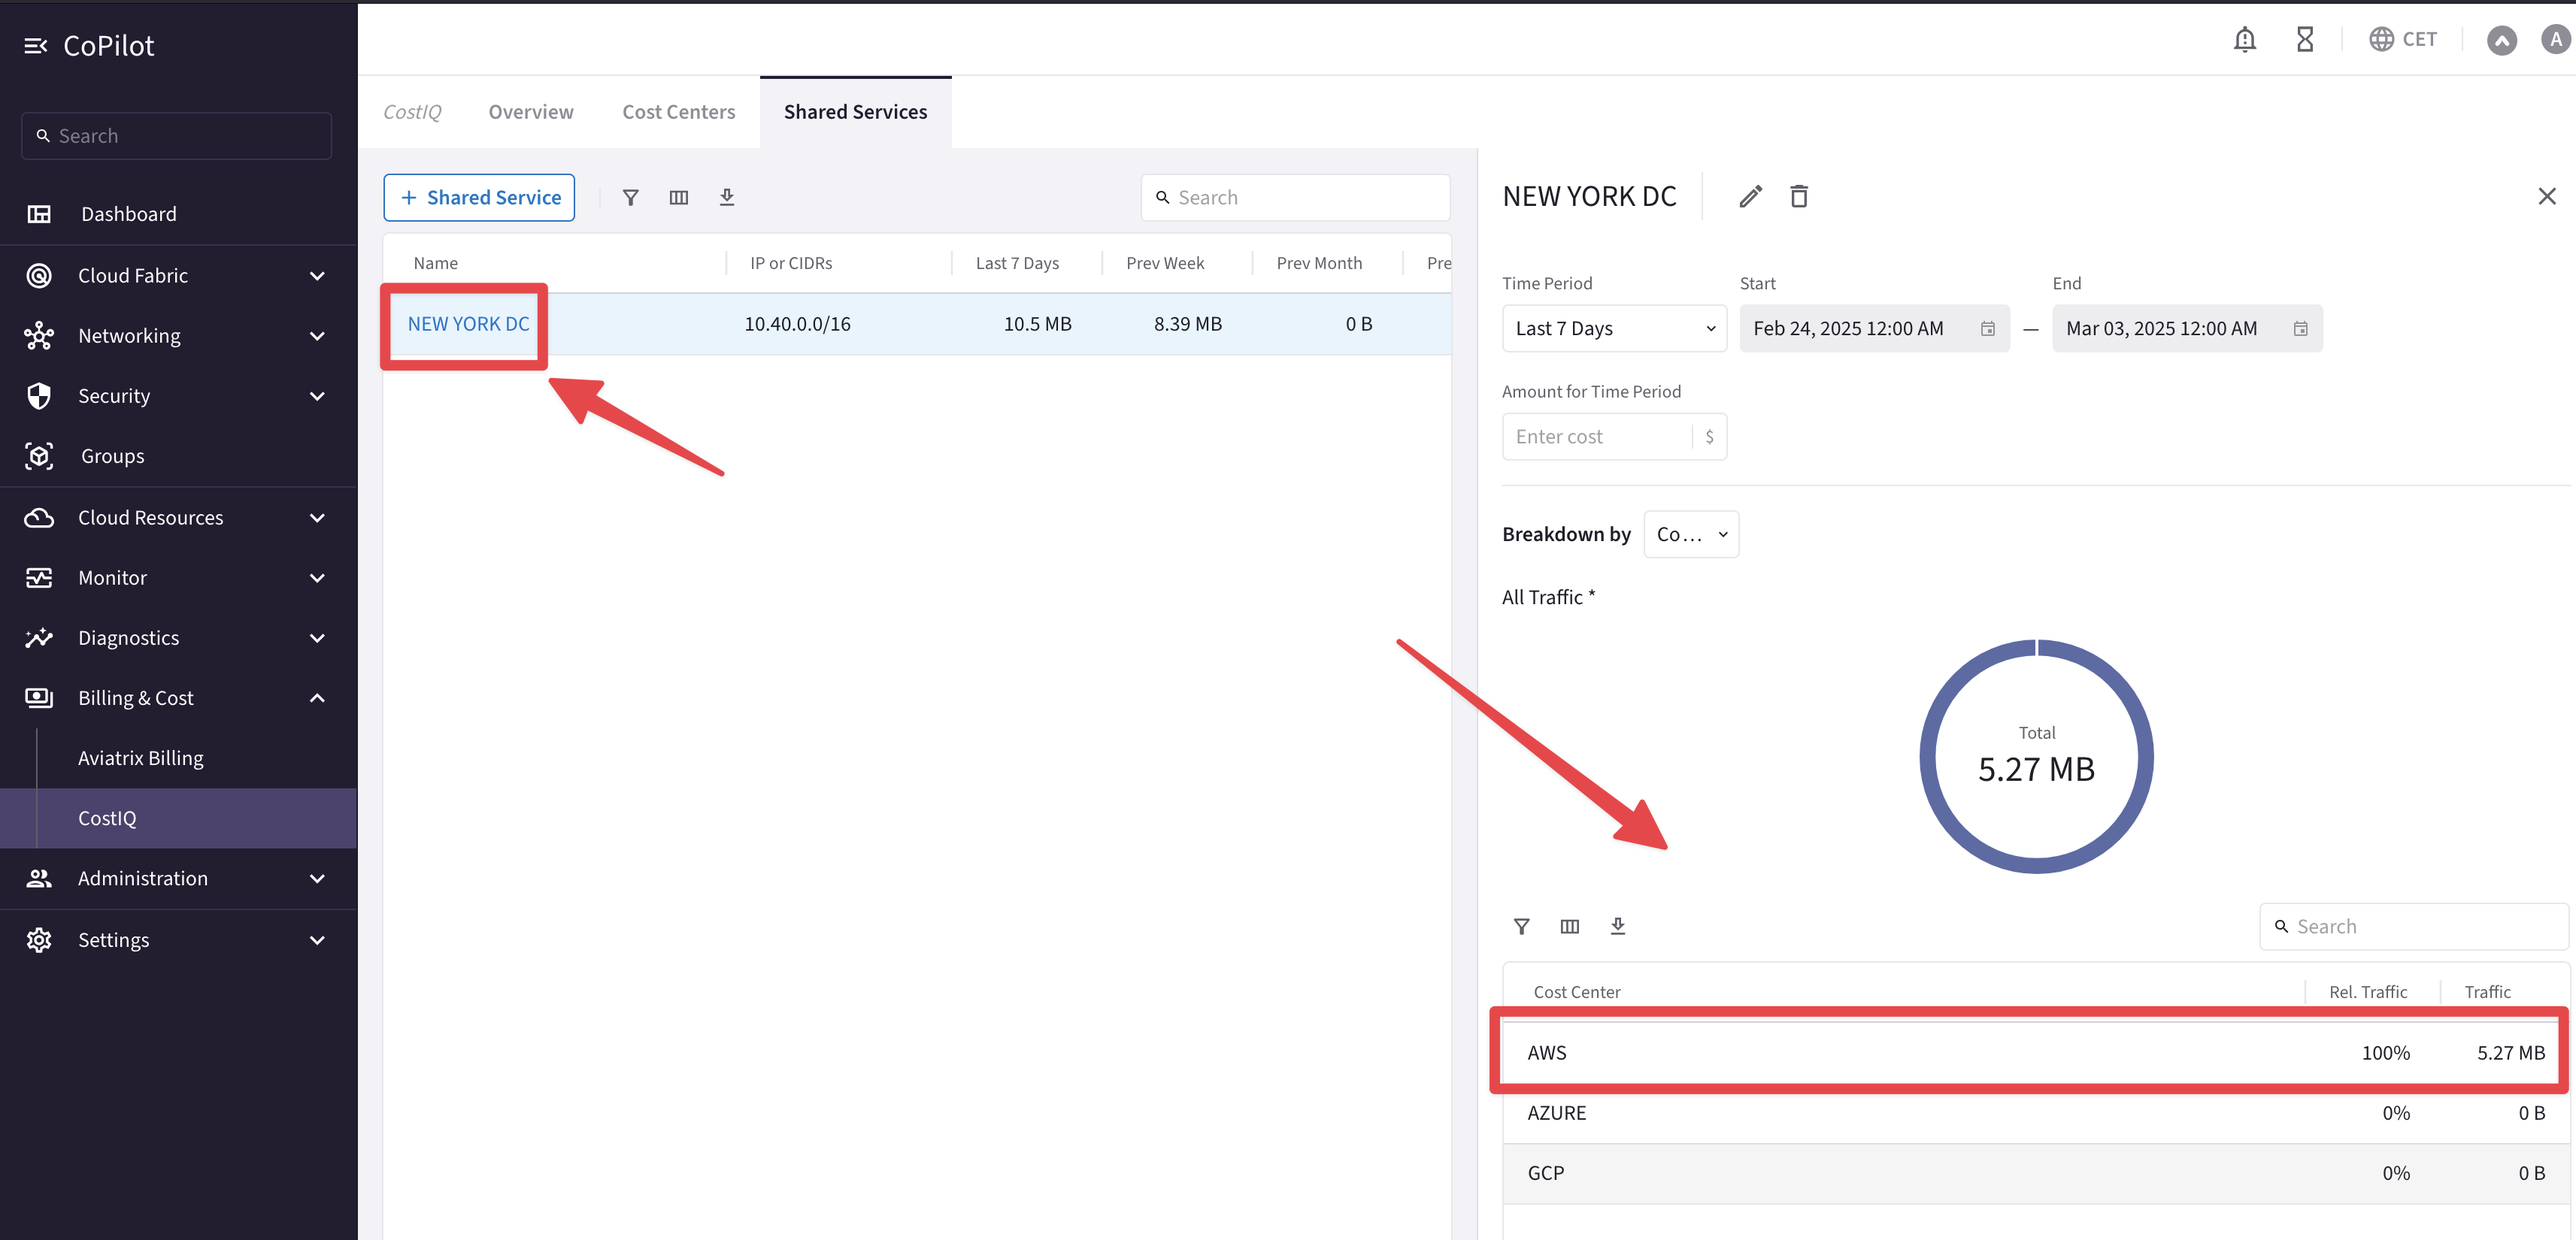
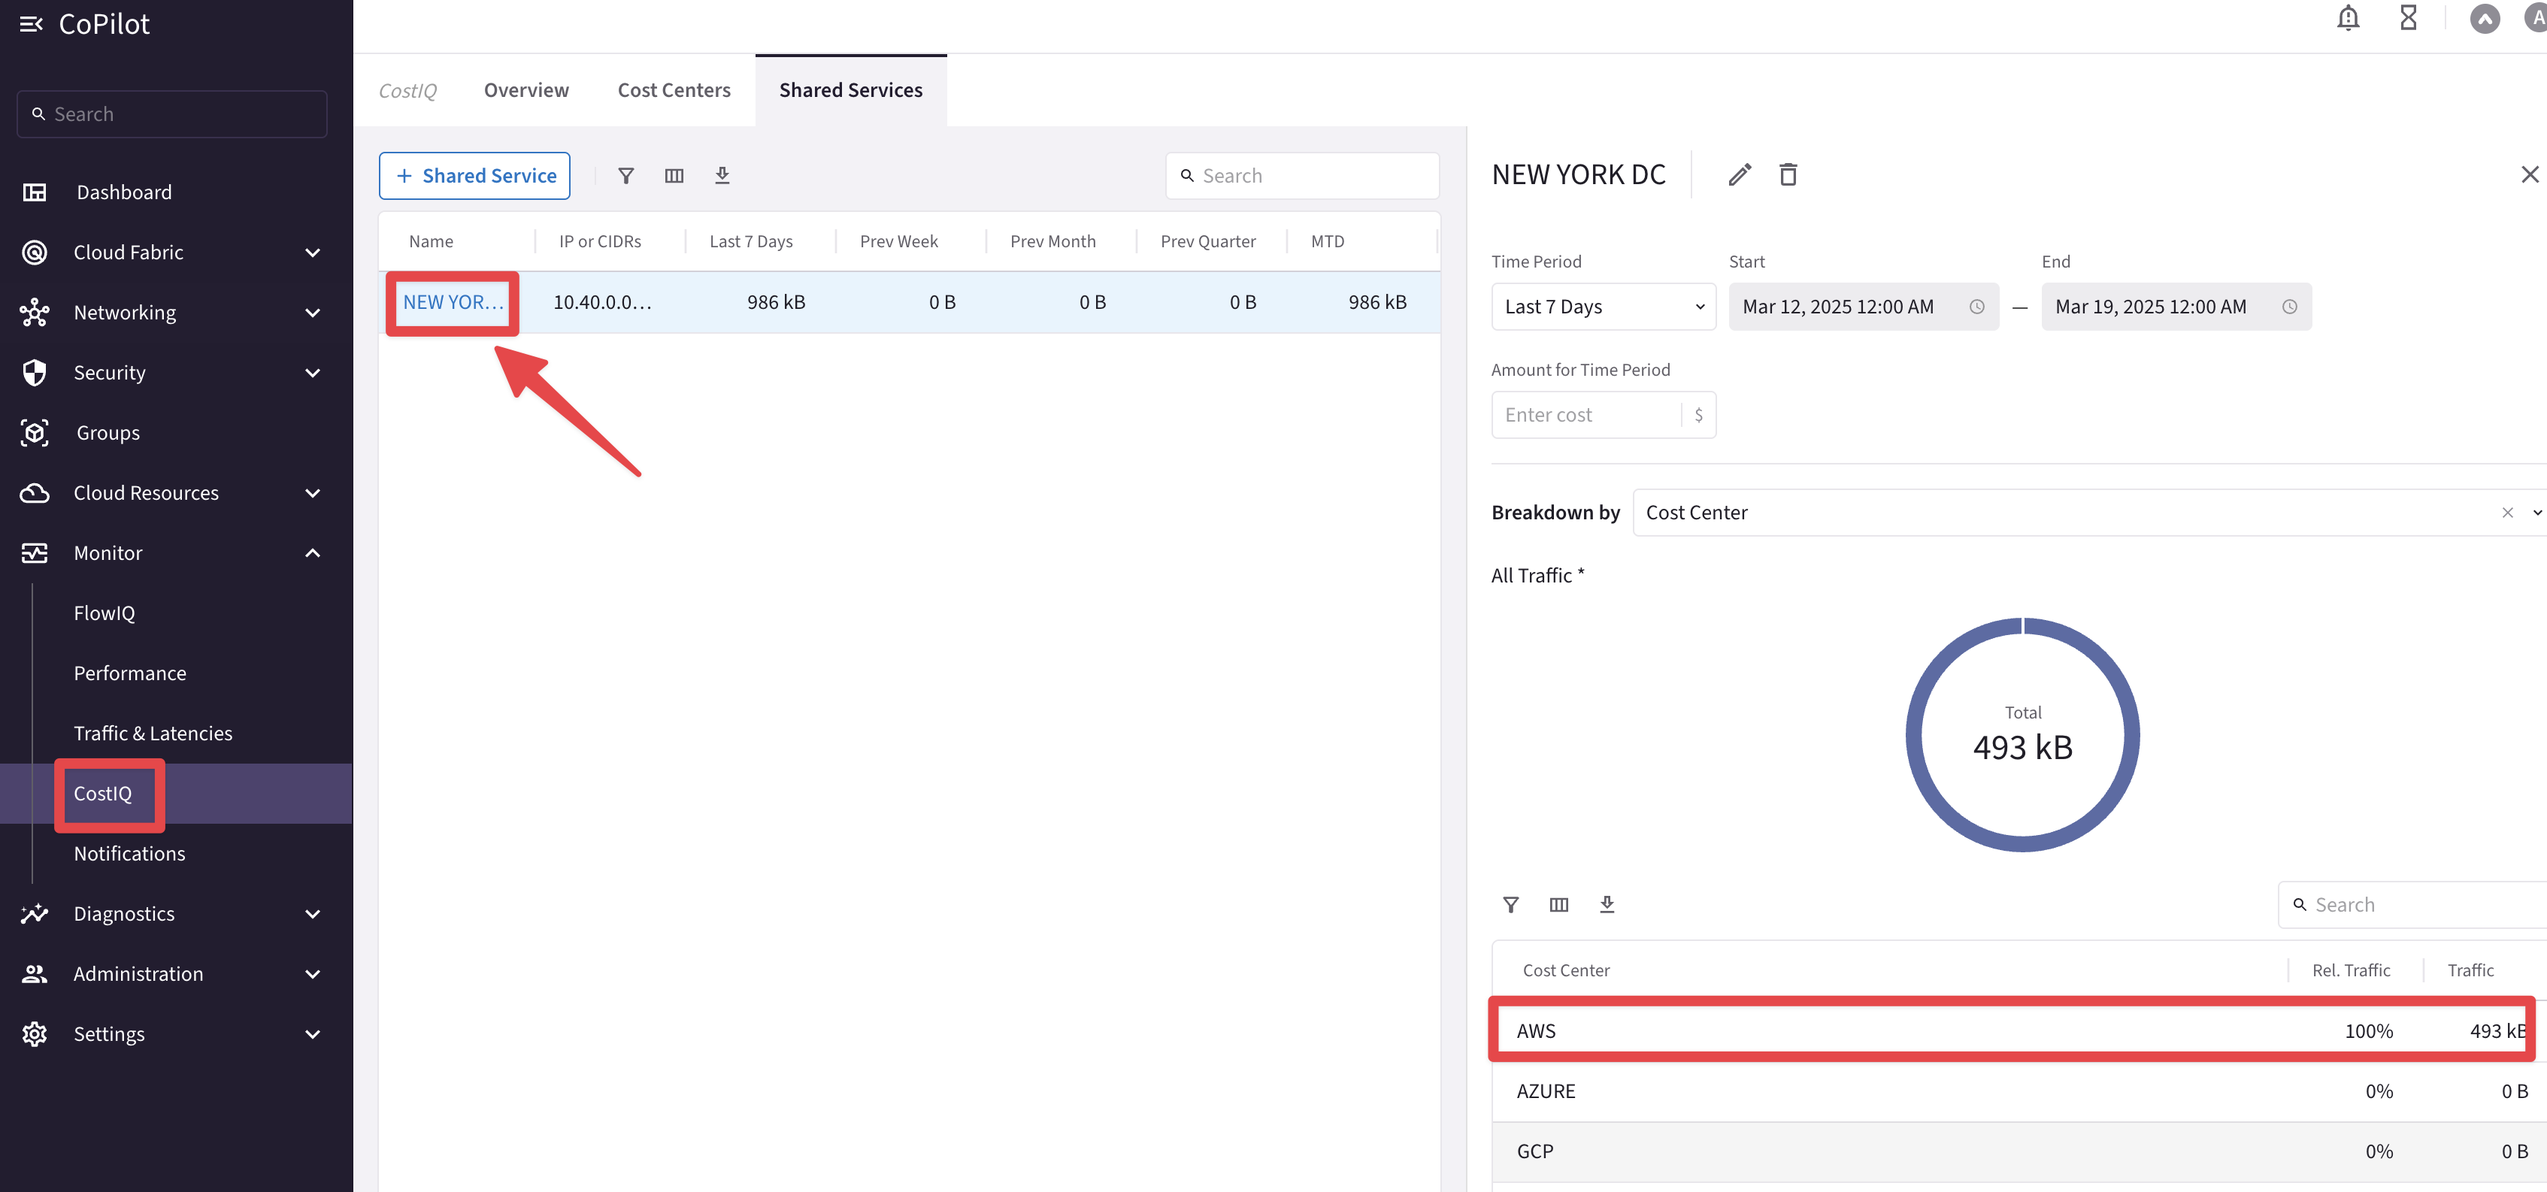
update for pro

diff --git a/ace_pro/docs/lab10.md b/ace_pro/docs/lab10.md
@@ -30,7 +30,7 @@ The CostIQ feature provides detailed traffic distribution analysis for your cost
 
 ### 2.1 Enable CostIQ
 
-Go to **Copilot > Settings > Configuration > License**, identify the CostIQ Add-on Feature and click on the `"Enable"` button.
+Go to **Copilot > Settings > Configuration > License**, identify the **CostIQ** _Add-on Feature_ and click on the `"Enable"` link.
 
 ```{figure} images/lab9-costiq123.png
 ---
@@ -279,7 +279,9 @@ Ping from the Wortkstation "Edge"
 
 ### 5.3 Cost Center and Shared Service
 
-Go to **CoPilot > Billing & Cost > CostIQ > Shared Services** and click on **NEW YORK DC** to expand the visibility of the percentage of traffic between the Shared Services and the Cost Center AWS. This traffic is permitted thanks to the DCF rule previously created.
+Go to **CoPilot > Monitor > CostIQ > Shared Services** and click on **NEW YORK DC** to expand the visibility of the percentage of traffic between the Shared Services and the Cost Center AWS. 
+
+This traffic is permitted thanks to the DCF rule previously created.
 
 ```{figure} images/lab9-counter.png
 ---

diff --git a/ace_pro/docs/lab9.md b/ace_pro/docs/lab9.md
@@ -557,7 +557,6 @@ Now click on the **VIEW** link on the right-hand side of the entry:
 
 ```{figure} images/lab96-newrule310.png
 ---
-height: 200px
 align: center
 ---
 View link
